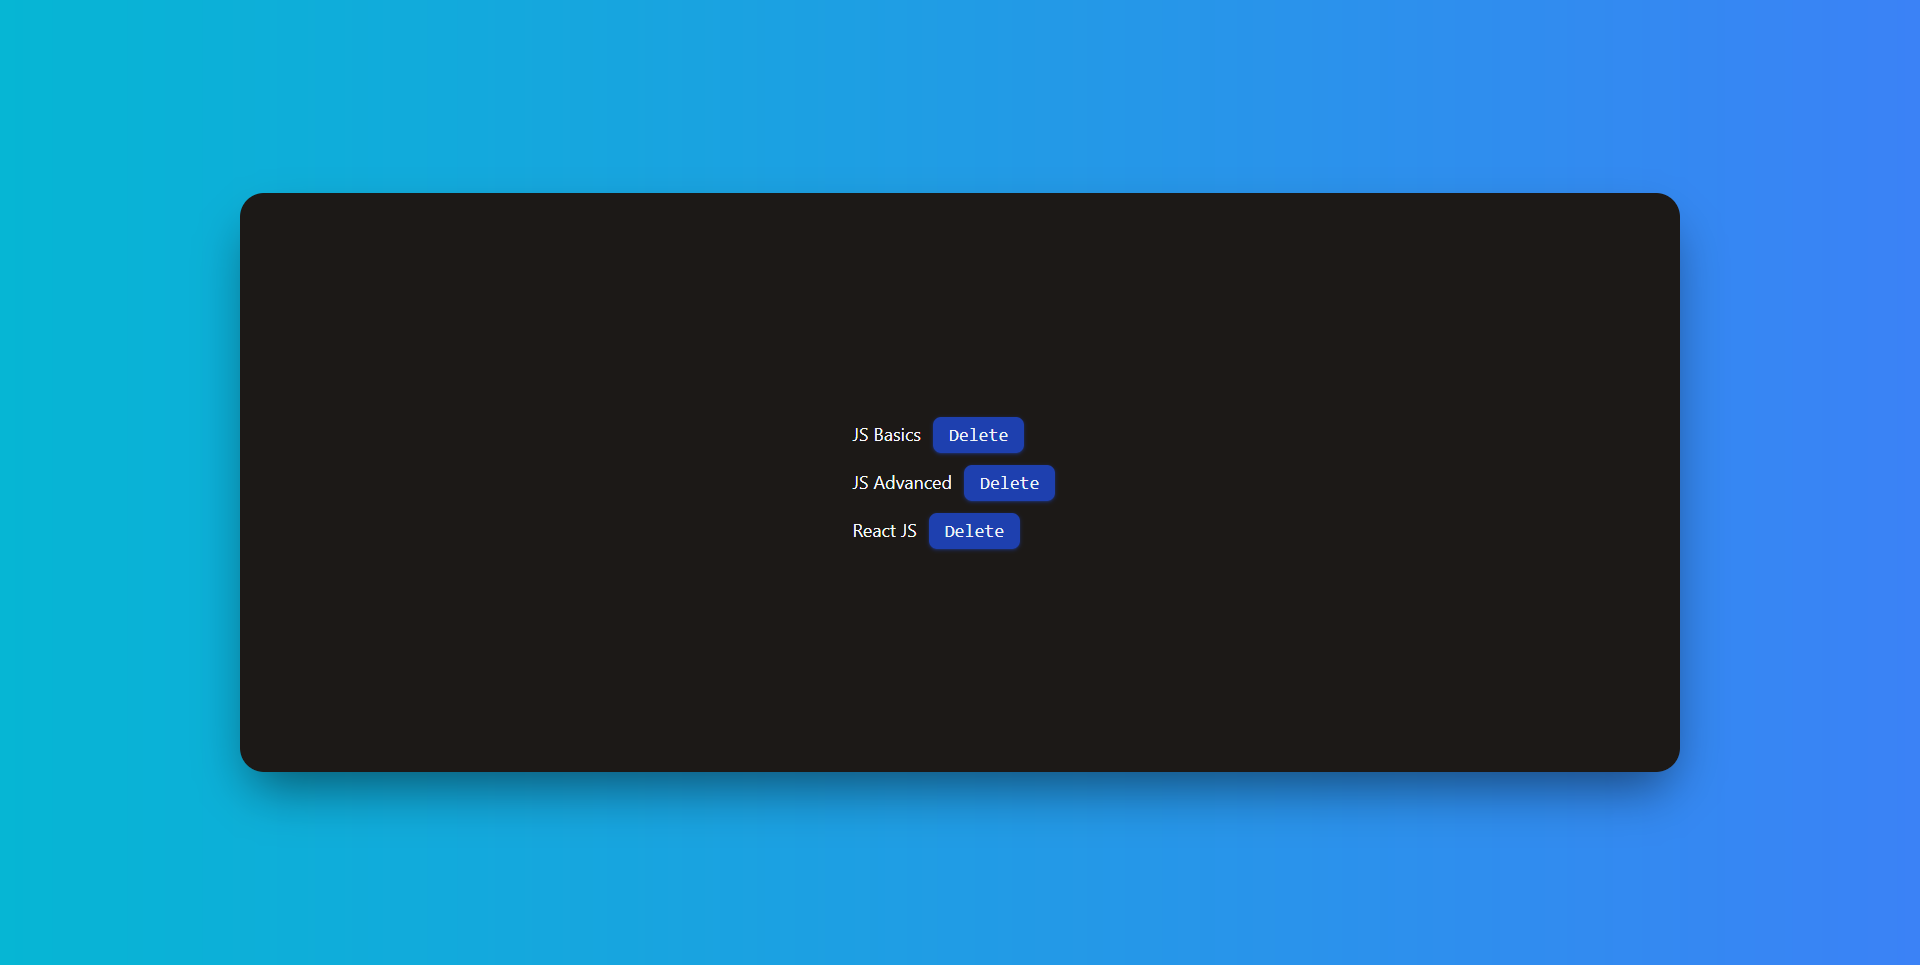
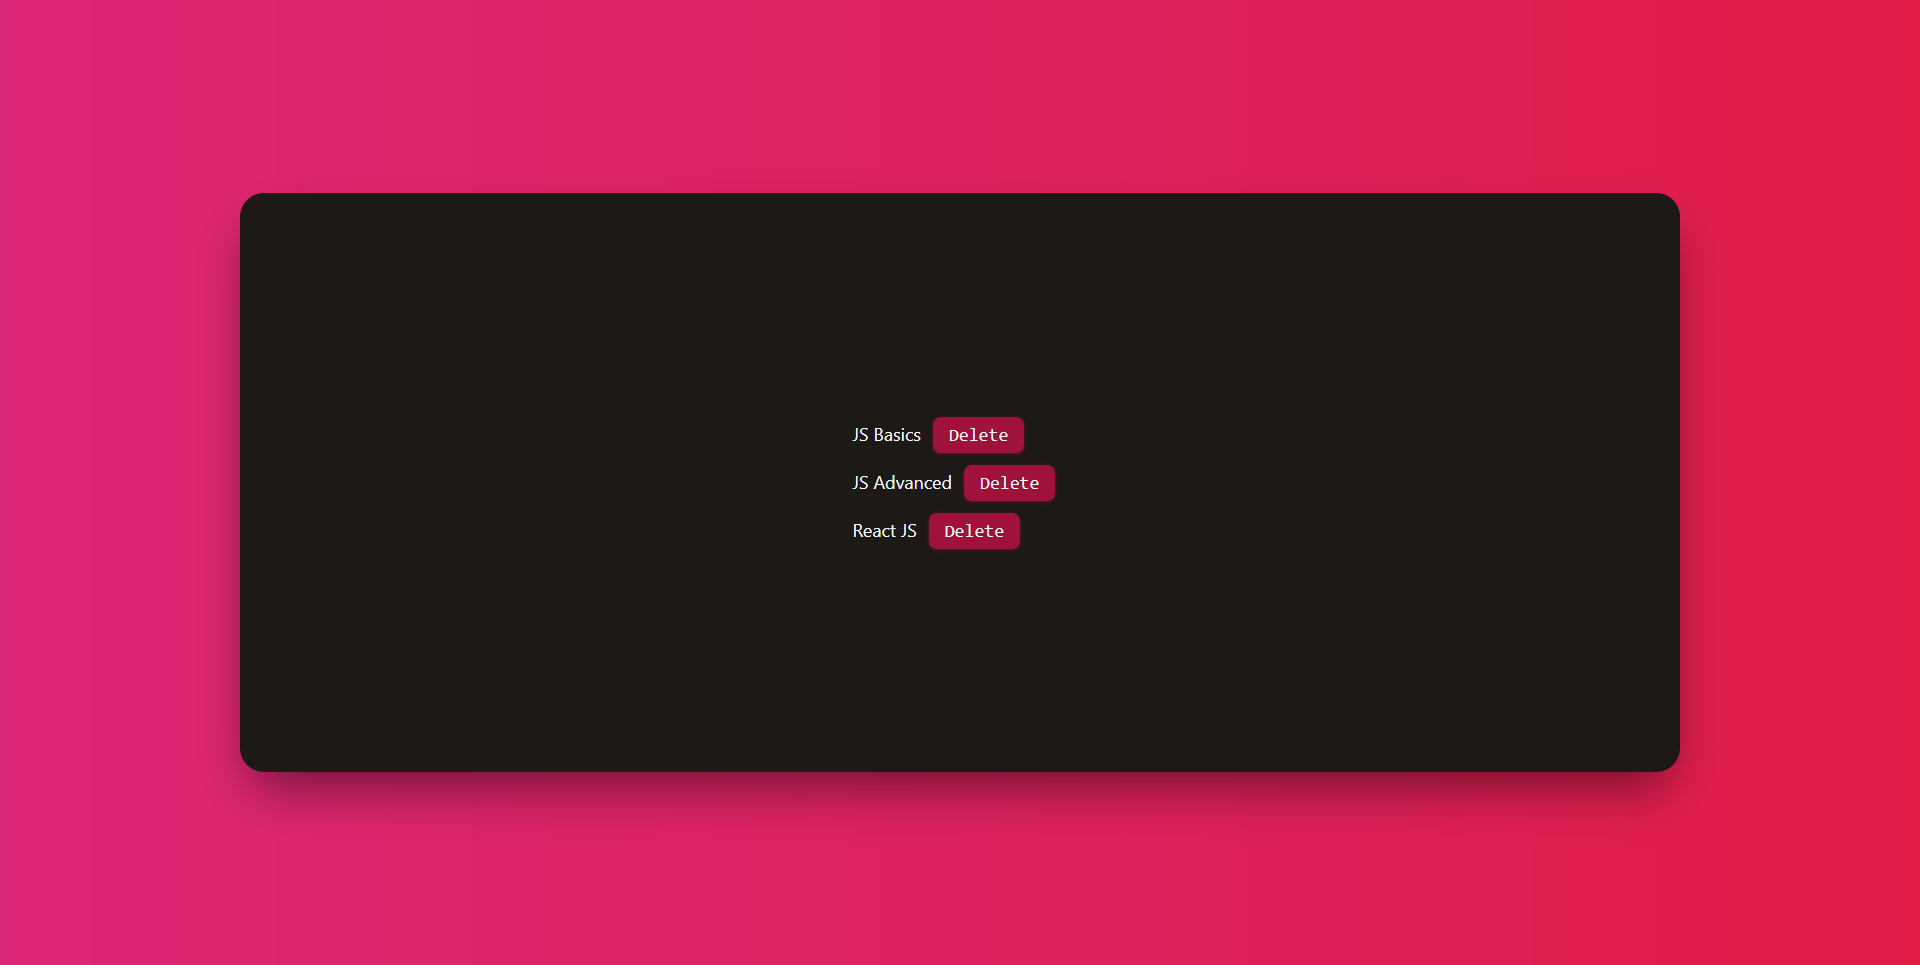
Change background and buttons color for List app
From blue to rose

diff --git a/react-components/src/components/Post.jsx b/react-components/src/components/Post.jsx
@@ -3,7 +3,7 @@ export function Post (props) {
         {props.name}
         <button
             onClick={e => props.func(props.id)}
-            className="font-mono text-lg bg-blue-800 text-slate-100 mx-3 py-1 px-4 rounded-lg hover:rounded-xl shadow shadow-blue-800/50 transition-all duration-150  ease-in hover:shadow-blue-800/80 hover:bg-blue-700 active:shadow-none"
+            className="font-mono text-lg bg-rose-800 text-slate-100 mx-3 py-1 px-4 rounded-lg hover:rounded-xl shadow shadow-rose-800/50 transition-all duration-150  ease-in hover:shadow-rose-800/80 hover:bg-rose-700 active:shadow-none"
         >
             Delete
         </button>

diff --git a/react-components/src/List.jsx b/react-components/src/List.jsx
@@ -21,7 +21,7 @@ class List extends React.Component {
 
     render() {
         return (
-            <section className='List h-screen flex items-center justify-center bg-gradient-to-r from-cyan-500 to-blue-500'>
+            <section className='List h-screen flex items-center justify-center bg-gradient-to-r from-pink-600 to-rose-600'>
                 <div className='relative timer-wrapper flex flex-col items-center justify-center w-11/12 sm:w-9/12 h-3/5 min-w-max py-4 bg-stone-900 text-slate-50 rounded-3xl shadow-2xl shadow-black/50'>
                     <Posts func={this.deleteComponent} posts={this.state.posts}/>
                 </div>
